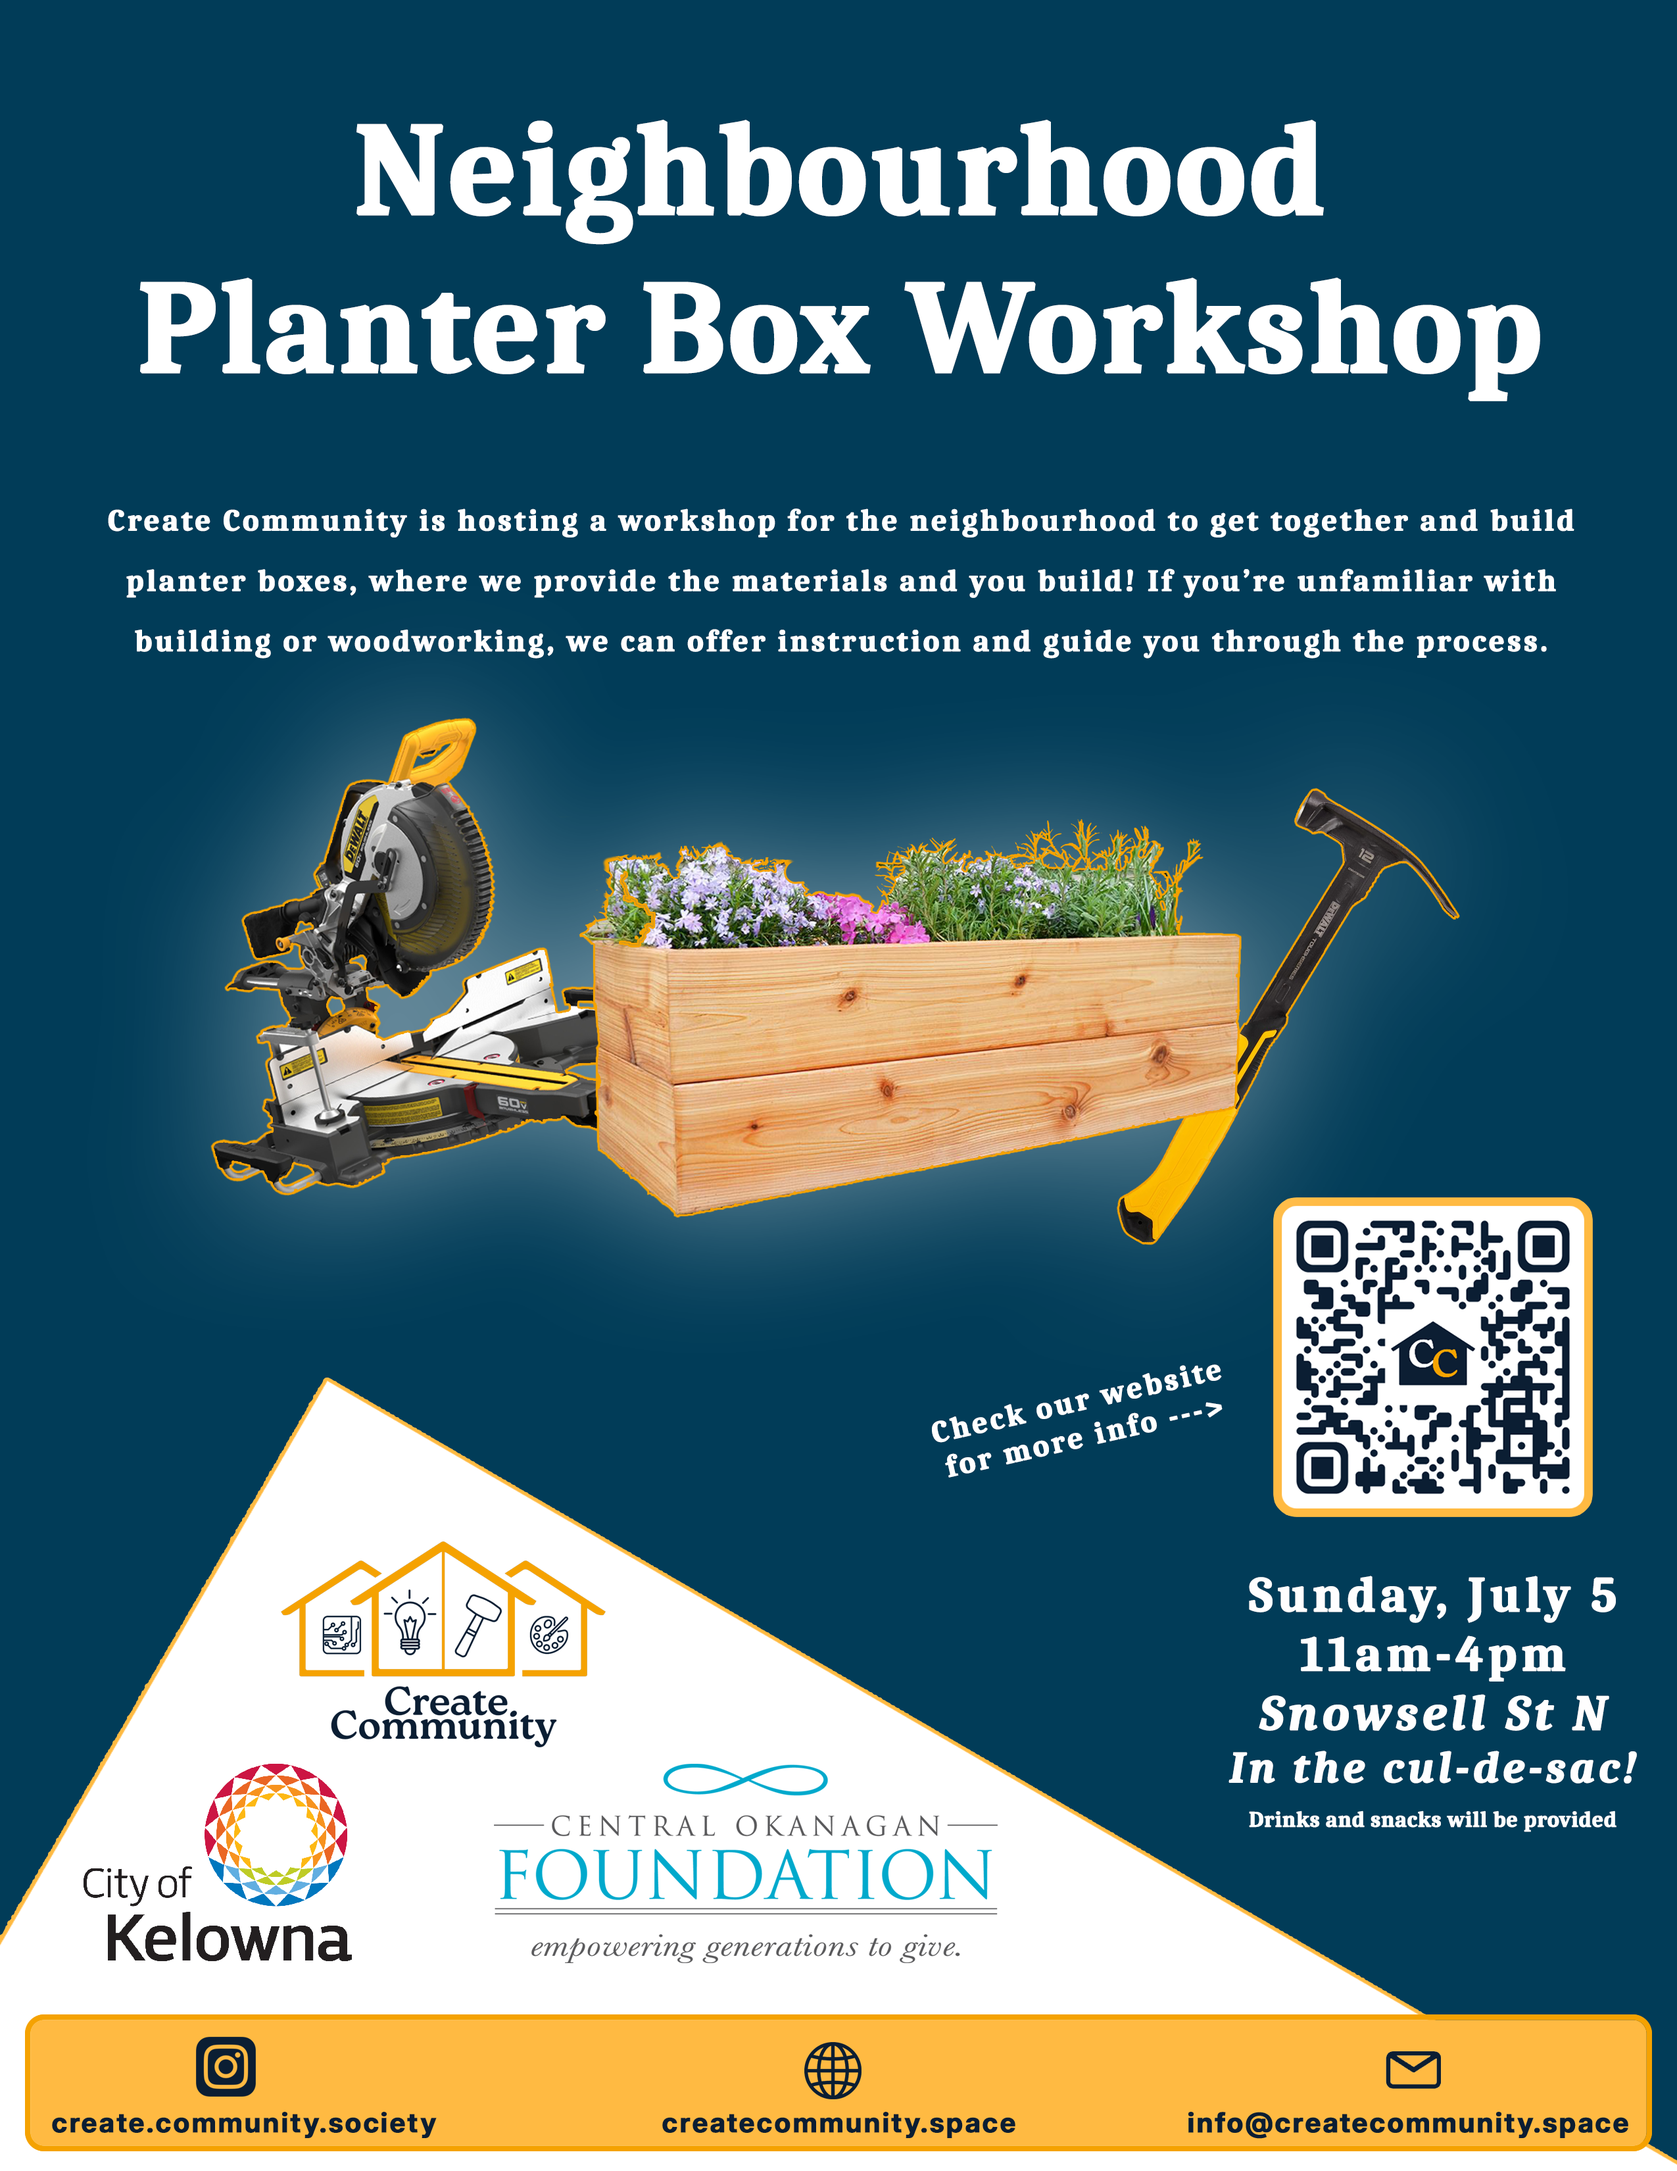
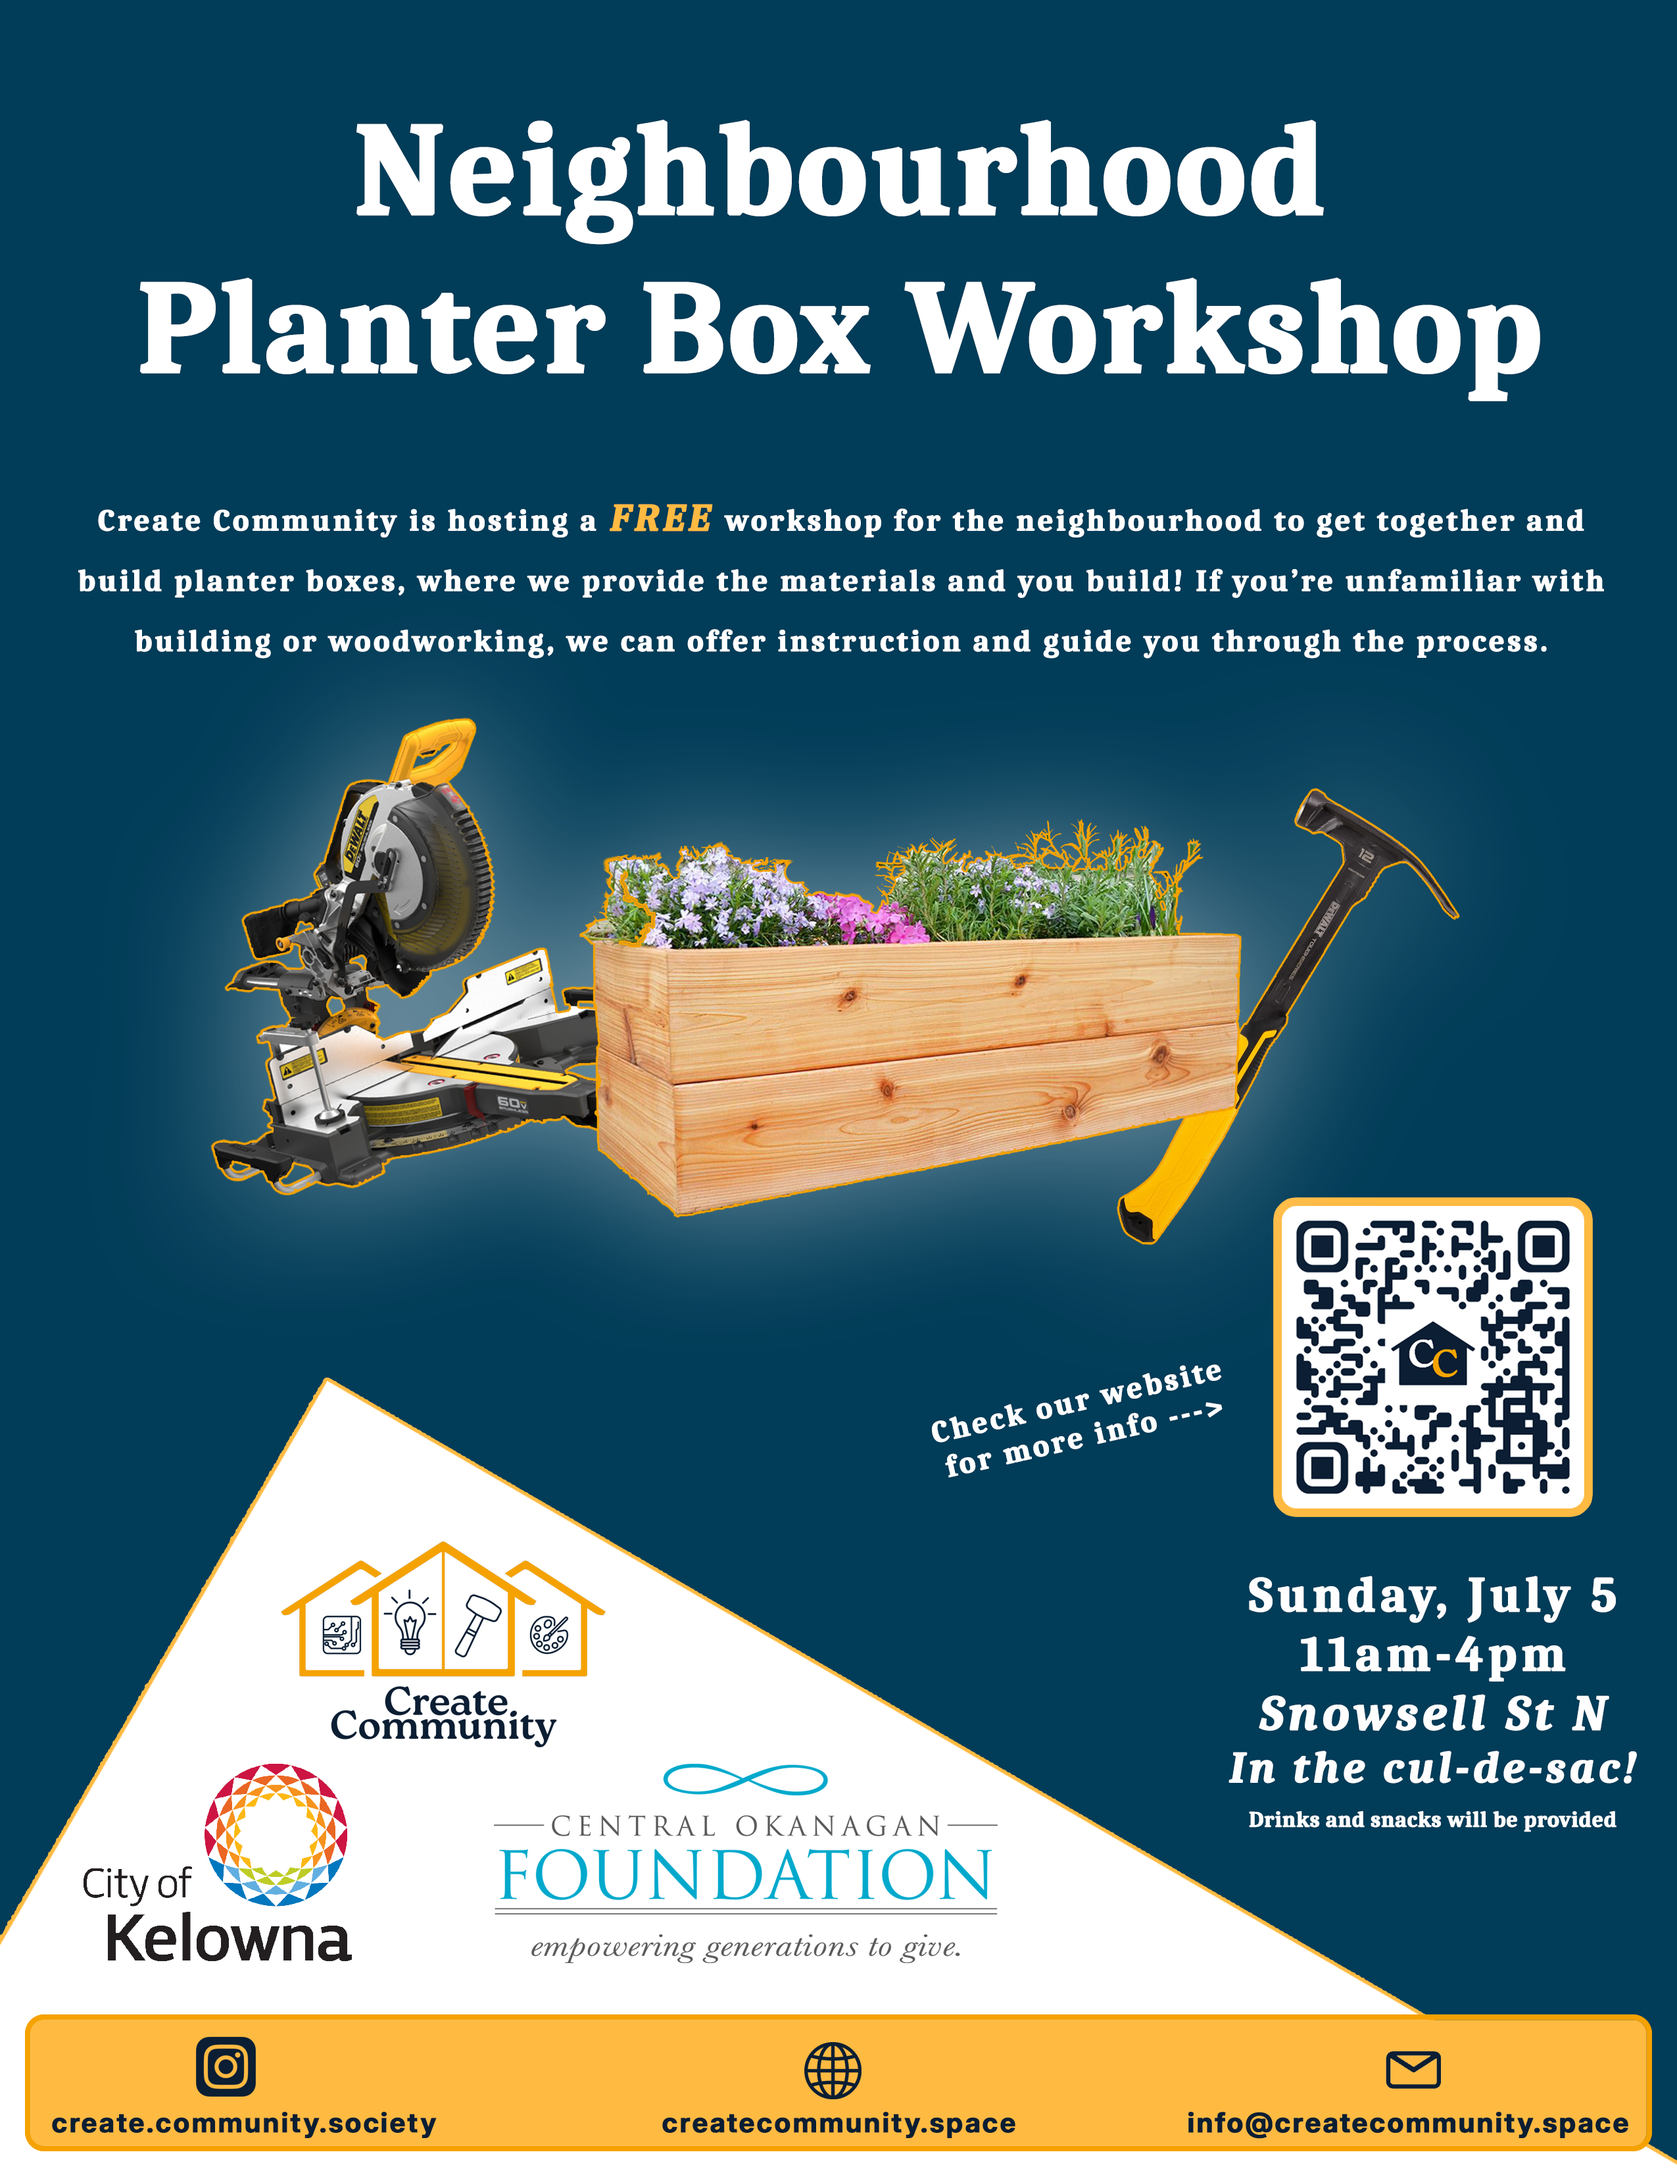
update workshop info to free

Changed region(s): [[0.062, 0.2185, 0.9604, 0.2809]]

diff --git a/themes/up/layouts/partials/head/_resources.html b/themes/up/layouts/partials/head/_resources.html
@@ -1,10 +1,9 @@
 <!-- Load Shared SCSS -->
 
 {{- $sharedSCSS := resources.Get "scss/shared/shared.scss" -}} {{- $sharedSCSS
-:= $sharedSCSS | resources.ToCSS (dict "outputStyle" "compressed" "includePaths" (slice
+:= $sharedSCSS | css.Sass (dict "outputStyle" "compressed" "includePaths" (slice
 "assets")) -}} {{- $sharedSCSS := $sharedSCSS | resources.ExecuteAsTemplate
 "main.scss" . -}}
-
 
 <!-- Load Shared JS -->
 {{- $sharedJS := resources.Get "js/shared/shared.js" -}} {{- $sharedJS :=

diff --git a/content/planter-box-workshop.md b/content/planter-box-workshop.md
@@ -8,7 +8,7 @@ tags = [
 URL = "/planter-box-workshop/"
 +++
 
-We are hosting an afternoon workshop where everyone in the neighbourhood can get together and build planter boxes.
+We are hosting a **_FREE_** afternoon workshop where everyone in the neighbourhood can get together and build planter boxes.
 If anyone is unfamiliar with building and woodworking, we will be able to offer instruction and guide you through the process.
 If you don't want to build, we invite you to come and join us for the day regardless, as you may learn something useful, discover a new hobby, or just have a fun time.
 
